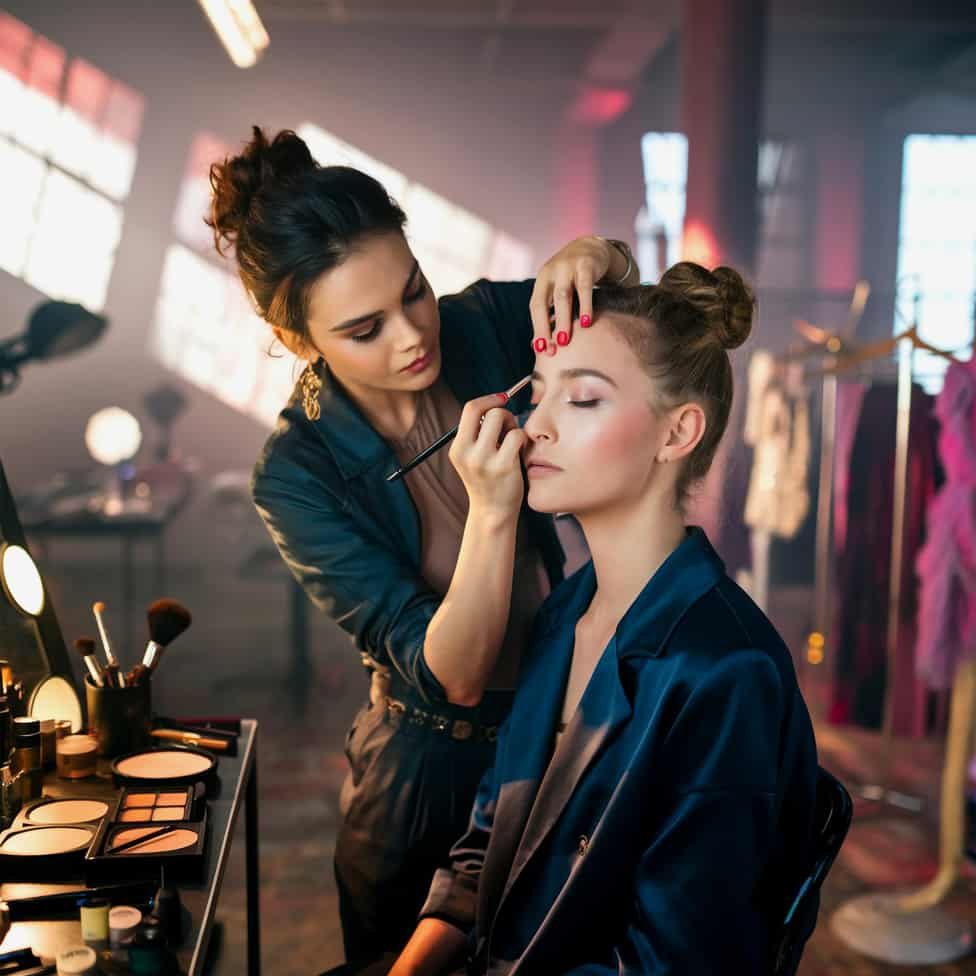
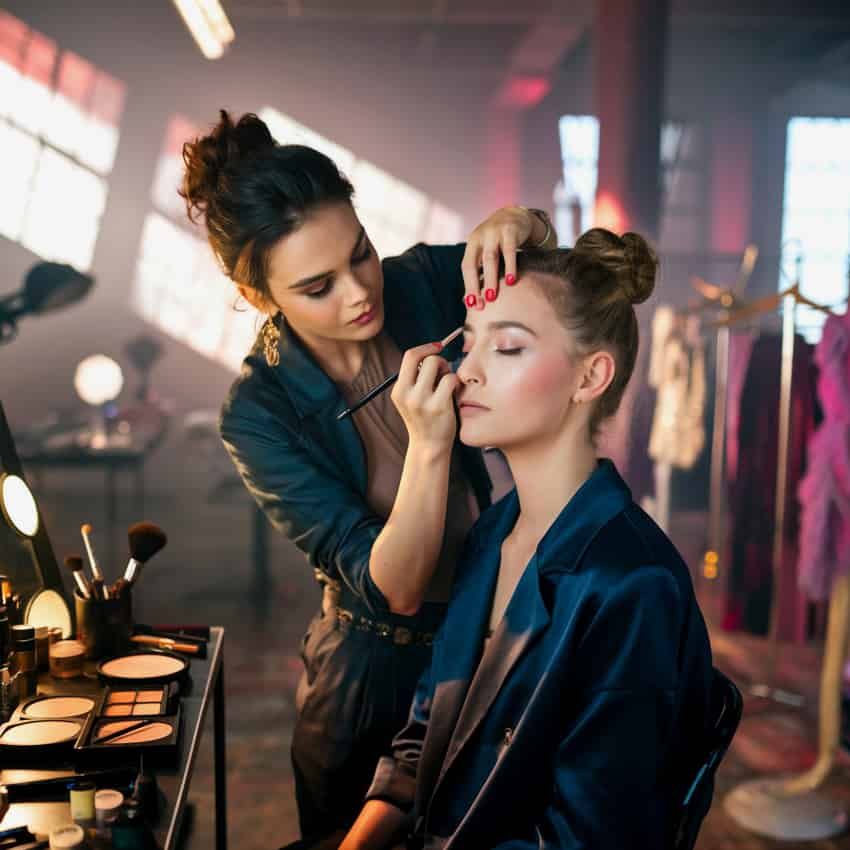
images changes dn

diff --git a/scripts/compress-images.js b/scripts/compress-images.js
@@ -2,13 +2,15 @@ const fs = require('fs');
 const path = require('path');
 const sharp = require('sharp');
 
-const TARGET_SIZE_BYTES = 50 * 1024; // 50 KB
+// Target strictly 39 KB (safety margin below 40 KB = 40960 bytes)
+const MAX_ALLOWED_BYTES = 40960; // 40 KB
+const TARGET_SIZE_BYTES = 39 * 1024; // 39 KB (~39936 bytes)
+
 const PUBLIC_DIR = path.join(__dirname, '..', 'public');
 const BACKUP_DIR = path.join(__dirname, '..', 'public_backup_original');
 
 const SUPPORTED_EXTS = ['.jpg', '.jpeg', '.png', '.webp', '.gif', '.avif'];
 
-// 1. Recursive file finder
 function getFiles(dir) {
   let results = [];
   if (!fs.existsSync(dir)) return results;
@@ -25,52 +27,58 @@ function getFiles(dir) {
   return results;
 }
 
-// 2. Backup creator
-function copyRecursiveSync(src, dest) {
-  if (!fs.existsSync(src)) return;
-  if (!fs.existsSync(dest)) {
-    fs.mkdirSync(dest, { recursive: true });
-  }
-  const entries = fs.readdirSync(src, { withFileTypes: true });
-  for (const entry of entries) {
-    const srcPath = path.join(src, entry.name);
-    const destPath = path.join(dest, entry.name);
-    if (entry.isDirectory()) {
-      copyRecursiveSync(srcPath, destPath);
-    } else {
-      fs.copyFileSync(srcPath, destPath);
-    }
-  }
-}
+async function compressImageFile(publicFilePath) {
+  const relPath = path.relative(PUBLIC_DIR, publicFilePath).replace(/\\/g, '/');
+  const ext = path.extname(publicFilePath).toLowerCase();
+  const currentPublicStat = fs.statSync(publicFilePath);
+  const currentPublicSize = currentPublicStat.size;
 
-// 3. Compression logic according to rules
-async function compressImage(filePath) {
-  const stat = fs.statSync(filePath);
-  const originalSize = stat.size;
-  const ext = path.extname(filePath).toLowerCase();
-
-  // Jo pehle se 50KB se choti hai, use mat chhedo
-  if (originalSize <= TARGET_SIZE_BYTES) {
+  // Rule 2: Jo images pehle se < 40KB (strictly <= MAX_ALLOWED_BYTES) hain, unhe mat chhedo
+  // (brand/b1-b8, tes/t1.jpg etc.)
+  if (currentPublicSize <= MAX_ALLOWED_BYTES) {
+    let imgDim = { width: '?', height: '?' };
+    try {
+      const meta = await sharp(publicFilePath).metadata();
+      imgDim = { width: meta.width, height: meta.height };
+    } catch (e) {}
     return {
-      before: originalSize,
-      after: originalSize,
-      status: 'Skipped (Already <50KB)'
+      before: currentPublicSize,
+      after: currentPublicSize,
+      dimensions: `${imgDim.width}x${imgDim.height}`,
+      status: 'Skipped (Already <40KB)'
     };
   }
 
-  const inputBuffer = fs.readFileSync(filePath);
-  const metadata = await sharp(inputBuffer).metadata();
+  // Rule 3: Compression hamesha public_backup_original/ ke ORIGINAL se karo,
+  // public ki already-compressed copy se nahi. Sirf banner1.jpg ke liye current public/banner1.jpg input hoga.
+  let inputPath = path.join(BACKUP_DIR, relPath);
+  if (!fs.existsSync(inputPath)) {
+    if (fs.existsSync(publicFilePath)) {
+      inputPath = publicFilePath;
+    } else {
+      throw new Error(`Original file not found for ${relPath}`);
+    }
+  }
 
-  let originalWidth = metadata.width || 1200;
-  let currentWidth = originalWidth;
+  const originalStat = fs.statSync(inputPath);
+  const originalSize = originalStat.size;
 
-  let bestBuffer = null;
-  let finalStatus = 'Compressed';
+  // Sharp instance with limitInputPixels: false for huge images (img8, img9)
+  const inputBuffer = fs.readFileSync(inputPath);
+  const baseSharp = () => sharp(inputBuffer, { limitInputPixels: false });
 
-  // Strategy loop:
-  // Step 1: Lower quality (for jpeg/webp/avif: 80 down to 40 in steps of 5)
-  // Step 2: If still > 50KB, reduce width by 10% steps, down to min 400px
-  // For PNG: compressionLevel: 9, palette: true, then scale down width if needed
+  const metadata = await baseSharp().metadata();
+  let baseWidth = metadata.width || 1200;
+
+  // Rule 4: Pehle bade images (width > 1600) ko 1600px wide par resize karo (withoutEnlargement: true)
+  if (baseWidth > 1600) {
+    baseWidth = 1600;
+  }
+
+  let currentWidth = baseWidth;
+
+  const isHeroBanner = relPath.includes('banner') || relPath.startsWith('banner');
+  const minWidth = isHeroBanner ? 800 : 480;
 
   const isPng = ext === '.png';
   const isJpeg = ext === '.jpg' || ext === '.jpeg';
@@ -78,50 +86,50 @@ async function compressImage(filePath) {
   const isAvif = ext === '.avif';
   const isGif = ext === '.gif';
 
-  // Outer loop: reduce width (10% step) if needed
+  let bestBuffer = null;
+  let finalStatus = 'Optimized (<40KB)';
+
   while (true) {
     let candidateBuffer = null;
 
     if (isPng) {
-      // First try palette: true, compressionLevel: 9
-      let pipeline = sharp(inputBuffer)
-        .rotate() // auto rotate based on EXIF before stripping
-        .withMetadata(false);
+      // PNG (banner.png, emoji.png, logo-mainn.png, brand/*.png)
+      // palette: true, quality 80 se 40, effort 10, colours 256 se kam karte jao (128, 64), phir resize.
+      // logo-mainn.png ki transparency (alpha) bachi rehni chahiye
+      let found = false;
+      const colourOptions = [256, 128, 64];
 
-      if (currentWidth < originalWidth) {
-        pipeline = pipeline.resize({ width: Math.round(currentWidth), withoutEnlargement: true });
-      }
-
-      candidateBuffer = await pipeline
-        .png({ compressionLevel: 9, palette: true, quality: 80 })
-        .toBuffer();
-
-      if (candidateBuffer.length > TARGET_SIZE_BYTES) {
-        // Try lowering quality on png palette
-        for (let q = 75; q >= 40; q -= 5) {
-          let testPipe = sharp(inputBuffer)
+      for (const colours of colourOptions) {
+        for (let q = 80; q >= 40; q -= 10) {
+          let pipeline = baseSharp()
             .rotate()
-            .withMetadata(false);
-          if (currentWidth < originalWidth) {
-            testPipe = testPipe.resize({ width: Math.round(currentWidth), withoutEnlargement: true });
-          }
-          const buf = await testPipe.png({ compressionLevel: 9, palette: true, quality: q }).toBuffer();
-          if (buf.length <= TARGET_SIZE_BYTES || q === 40) {
-            candidateBuffer = buf;
-            if (buf.length <= TARGET_SIZE_BYTES) break;
+            .resize({ width: Math.round(currentWidth), withoutEnlargement: true })
+            .png({
+              palette: true,
+              quality: q,
+              effort: 10,
+              colours: colours
+            });
+
+          const buf = await pipeline.toBuffer();
+          candidateBuffer = buf;
+
+          if (buf.length <= TARGET_SIZE_BYTES) {
+            found = true;
+            break;
           }
         }
+        if (found) break;
       }
     } else if (isJpeg || isWebp || isAvif) {
-      // Quality step from 80 down to 40
-      for (let q = 80; q >= 40; q -= 5) {
-        let pipeline = sharp(inputBuffer)
-          .rotate()
-          .withMetadata(false);
+      // JPEG: mozjpeg: true, quality 75 se 40 tak step 5 me gir ke dekho.
+      let found = false;
+      const startQuality = isJpeg ? 75 : 80;
 
-        if (currentWidth < originalWidth) {
-          pipeline = pipeline.resize({ width: Math.round(currentWidth), withoutEnlargement: true });
-        }
+      for (let q = startQuality; q >= 40; q -= 5) {
+        let pipeline = baseSharp()
+          .rotate()
+          .resize({ width: Math.round(currentWidth), withoutEnlargement: true });
 
         let buf;
         if (isJpeg) {
@@ -134,118 +142,144 @@ async function compressImage(filePath) {
 
         candidateBuffer = buf;
         if (buf.length <= TARGET_SIZE_BYTES) {
+          found = true;
           break;
         }
       }
     } else if (isGif) {
-      // GIF processing
-      let pipeline = sharp(inputBuffer, { animated: true })
-        .withMetadata(false);
-      if (currentWidth < originalWidth) {
-        pipeline = pipeline.resize({ width: Math.round(currentWidth) });
-      }
+      let pipeline = sharp(inputBuffer, { limitInputPixels: false, animated: true })
+        .resize({ width: Math.round(currentWidth), withoutEnlargement: true });
       candidateBuffer = await pipeline.gif().toBuffer();
     } else {
-      // Fallback
       candidateBuffer = inputBuffer;
     }
 
     bestBuffer = candidateBuffer;
 
-    if (bestBuffer.length <= TARGET_SIZE_BYTES) {
+    if (bestBuffer && bestBuffer.length <= TARGET_SIZE_BYTES) {
       break;
     }
 
-    // Still > 50KB: reduce width by 10%
+    // Phir bhi > 39KB ho to width 10% kam karo aur loop repeat karo.
     const nextWidth = Math.round(currentWidth * 0.9);
-    if (nextWidth < 400 || nextWidth === currentWidth) {
-      // Cannot reduce below 400px
-      finalStatus = `Warning: Best size ${(bestBuffer.length / 1024).toFixed(1)}KB at min width ${Math.max(400, currentWidth)}px`;
+    if (nextWidth < minWidth || nextWidth >= currentWidth) {
+      // If we cannot reduce width further under minWidth, check if it's already under 40960 bytes
+      if (bestBuffer && bestBuffer.length <= MAX_ALLOWED_BYTES) {
+        // Fits under 40 KB!
+        break;
+      }
+
+      // If still above 40 KB, try dropping below minWidth up to 320px if necessary to guarantee <40KB
+      if (nextWidth >= 320 && nextWidth < currentWidth) {
+        currentWidth = nextWidth;
+        continue;
+      }
+
+      finalStatus = `FAILED (>40KB): ${(bestBuffer.length / 1024).toFixed(1)}KB at ${currentWidth}px`;
       break;
     }
     currentWidth = nextWidth;
   }
 
-  // Write compressed image
-  if (bestBuffer && bestBuffer.length < originalSize) {
-    fs.writeFileSync(filePath, bestBuffer);
-    return {
-      before: originalSize,
-      after: bestBuffer.length,
-      status: bestBuffer.length <= TARGET_SIZE_BYTES ? 'Optimized (<50KB)' : finalStatus
-    };
-  } else {
-    return {
-      before: originalSize,
-      after: originalSize,
-      status: 'No reduction possible'
-    };
+  // Verify and write to public/
+  if (bestBuffer) {
+    // Only overwrite if it was produced successfully
+    if (bestBuffer.length <= MAX_ALLOWED_BYTES) {
+      fs.writeFileSync(publicFilePath, bestBuffer);
+      const finalMeta = await sharp(bestBuffer).metadata();
+      return {
+        before: originalSize,
+        after: bestBuffer.length,
+        dimensions: `${finalMeta.width}x${finalMeta.height}`,
+        status: 'Optimized (<40KB)'
+      };
+    } else {
+      // File could not be brought under 40KB
+      const finalMeta = await sharp(bestBuffer).metadata();
+      return {
+        before: originalSize,
+        after: bestBuffer.length,
+        dimensions: `${finalMeta.width}x${finalMeta.height}`,
+        status: finalStatus
+      };
+    }
   }
+
+  throw new Error(`Failed to compress ${relPath}`);
 }
 
 async function main() {
-  console.log('=== Image Compression Script ===\n');
+  console.log('=== Image Compression Script (Target < 40KB) ===\n');
 
-  // Step 2: Backup public folder
-  console.log(`[1/4] Checking backup in "${path.relative(process.cwd(), BACKUP_DIR)}"...`);
+  console.log('[1/4] Checking environment & directories...');
   if (!fs.existsSync(BACKUP_DIR)) {
-    console.log('Creating backup of public/ ...');
-    copyRecursiveSync(PUBLIC_DIR, BACKUP_DIR);
-    console.log('Backup created successfully.');
-  } else {
-    console.log('Backup already exists. Skipping backup step to prevent overwriting originals.');
+    console.error('ERROR: public_backup_original directory does not exist!');
+    process.exit(1);
   }
 
-  // Step 1: Scan files
-  console.log('\n[2/4] Scanning public/ directory...');
+  console.log('[2/4] Scanning public/ directory...');
   const allFiles = getFiles(PUBLIC_DIR);
   const imageFiles = allFiles.filter(f => SUPPORTED_EXTS.includes(path.extname(f).toLowerCase()));
+  console.log(`Found ${imageFiles.length} images in public/.\n`);
 
-  console.log(`Found ${imageFiles.length} images in total.\n`);
-
-  // Step 3 & 4: Process images
   console.log('[3/4] Compressing images...\n');
   const results = [];
+  const failedList = [];
 
   for (const imgPath of imageFiles) {
     const relPath = path.relative(PUBLIC_DIR, imgPath).replace(/\\/g, '/');
     try {
-      const res = await compressImage(imgPath);
+      const res = await compressImageFile(imgPath);
       results.push({
         file: relPath,
         beforeKB: (res.before / 1024).toFixed(1),
         afterKB: (res.after / 1024).toFixed(1),
-        status: res.status
+        dimensions: res.dimensions,
+        status: res.status,
+        rawAfter: res.after
       });
-      console.log(`✓ Processed: ${relPath} (${(res.before / 1024).toFixed(1)} KB -> ${(res.after / 1024).toFixed(1)} KB) - ${res.status}`);
+
+      if (res.status.startsWith('FAILED') || res.after > MAX_ALLOWED_BYTES) {
+        failedList.push({ file: relPath, sizeKB: (res.after / 1024).toFixed(1) });
+        console.log(`✗ FAILED: ${relPath} (${(res.before / 1024).toFixed(1)} KB -> ${(res.after / 1024).toFixed(1)} KB) - ${res.status}`);
+      } else {
+        console.log(`✓ ${relPath.padEnd(20)}: ${(res.before / 1024).toFixed(1).padStart(7)} KB -> ${(res.after / 1024).toFixed(1).padStart(5)} KB (${res.dimensions}) [${res.status}]`);
+      }
     } catch (err) {
       console.error(`✗ Error processing ${relPath}:`, err.message);
       results.push({
         file: relPath,
         beforeKB: 'Error',
         afterKB: 'Error',
-        status: `Error: ${err.message}`
+        dimensions: 'Error',
+        status: `Error: ${err.message}`,
+        rawAfter: Infinity
       });
+      failedList.push({ file: relPath, sizeKB: 'Error' });
     }
   }
 
-  // Step 5: Print Summary Table
-  console.log('\n[4/4] Final Results Table:');
-  console.log('---------------------------------------------------------------------------------------------------------');
-  console.log(`| ${'File Path'.padEnd(30)} | ${'Before'.padStart(10)} | ${'After'.padStart(10)} | ${'Status'.padEnd(35)} |`);
-  console.log('---------------------------------------------------------------------------------------------------------');
+  console.log('\n[4/4] Verification & Summary Table:');
+  console.log('-------------------------------------------------------------------------------------------------------------------');
+  console.log(`| ${'File Path'.padEnd(25)} | ${'Before'.padStart(12)} | ${'After'.padStart(10)} | ${'Dimensions'.padStart(14)} | ${'Status'.padEnd(30)} |`);
+  console.log('-------------------------------------------------------------------------------------------------------------------');
   for (const r of results) {
-    console.log(`| ${r.file.padEnd(30)} | ${(r.beforeKB + ' KB').padStart(10)} | ${(r.afterKB + ' KB').padStart(10)} | ${r.status.padEnd(35)} |`);
+    console.log(`| ${r.file.padEnd(25)} | ${(r.beforeKB + ' KB').padStart(12)} | ${(r.afterKB + ' KB').padStart(10)} | ${r.dimensions.padStart(14)} | ${r.status.padEnd(30)} |`);
   }
-  console.log('---------------------------------------------------------------------------------------------------------');
+  console.log('-------------------------------------------------------------------------------------------------------------------');
 
-  // Step 6: Verification
-  const stillAbove50KB = results.filter(r => parseFloat(r.afterKB) > 50);
-  if (stillAbove50KB.length === 0) {
-    console.log('\n SUCCESS: Saari images 50KB ke andar optimize ho gayi hain!');
+  console.log('\n--- SUMMARY ---');
+  const optimizedCount = results.filter(r => r.status.includes('Optimized')).length;
+  const skippedCount = results.filter(r => r.status.includes('Skipped')).length;
+  console.log(`Total images scanned: ${results.length}`);
+  console.log(`Compressed & Optimized: ${optimizedCount}`);
+  console.log(`Skipped (already < 40KB): ${skippedCount}`);
+
+  if (failedList.length > 0) {
+    console.log(`\n❌ FAILED Images (${failedList.length}):`);
+    failedList.forEach(f => console.log(`  - ${f.file}: ${f.sizeKB} KB`));
   } else {
-    console.log(`\n ATTENTION: ${stillAbove50KB.length} image(s) 50KB se badi hain (min width limit 400px reached):`);
-    stillAbove50KB.forEach(img => console.log(`  - ${img.file} (${img.afterKB} KB)`));
+    console.log('\n✅ ALL IMAGES ARE STRICTLY UNDER 40 KB (40960 BYTES)!');
   }
 }
 
